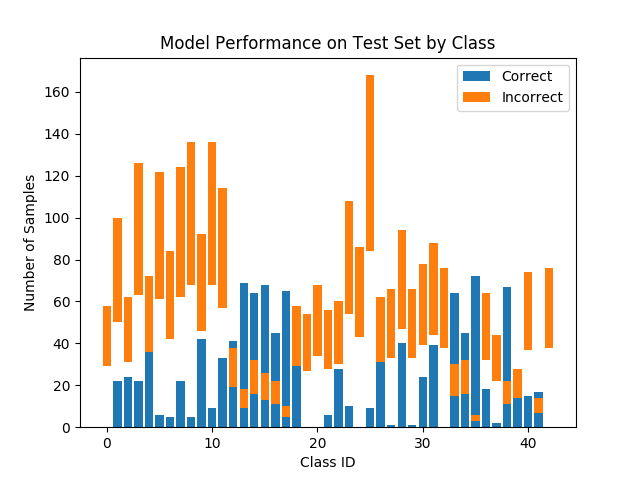
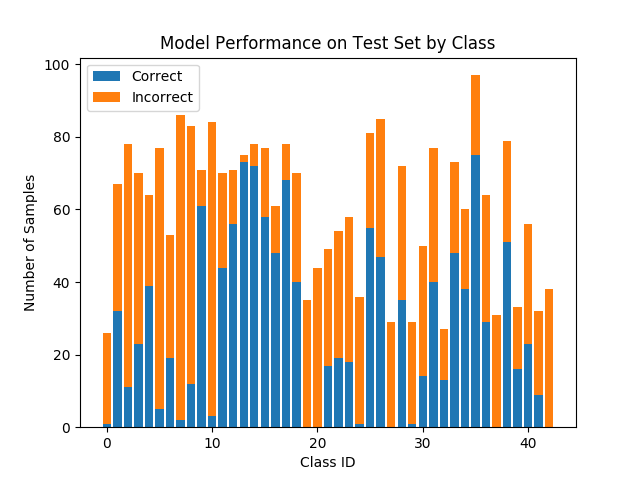
fixed plotting for test set

diff --git a/helper.py b/helper.py
@@ -102,7 +102,7 @@ def cal_accuracy(test_loader, net, test_set=False):
             x_axis = np.arange(N_CLASS)
 
             ax.bar(x_axis, correct_from_class, label='Correct')
-            ax.bar(x_axis, incorrect_from_class, bottom=incorrect_from_class, label='Incorrect')
+            ax.bar(x_axis, incorrect_from_class, bottom=correct_from_class, label='Incorrect')
 
             ax.set_ylabel('Number of Samples')
             ax.set_xlabel('Class ID')
